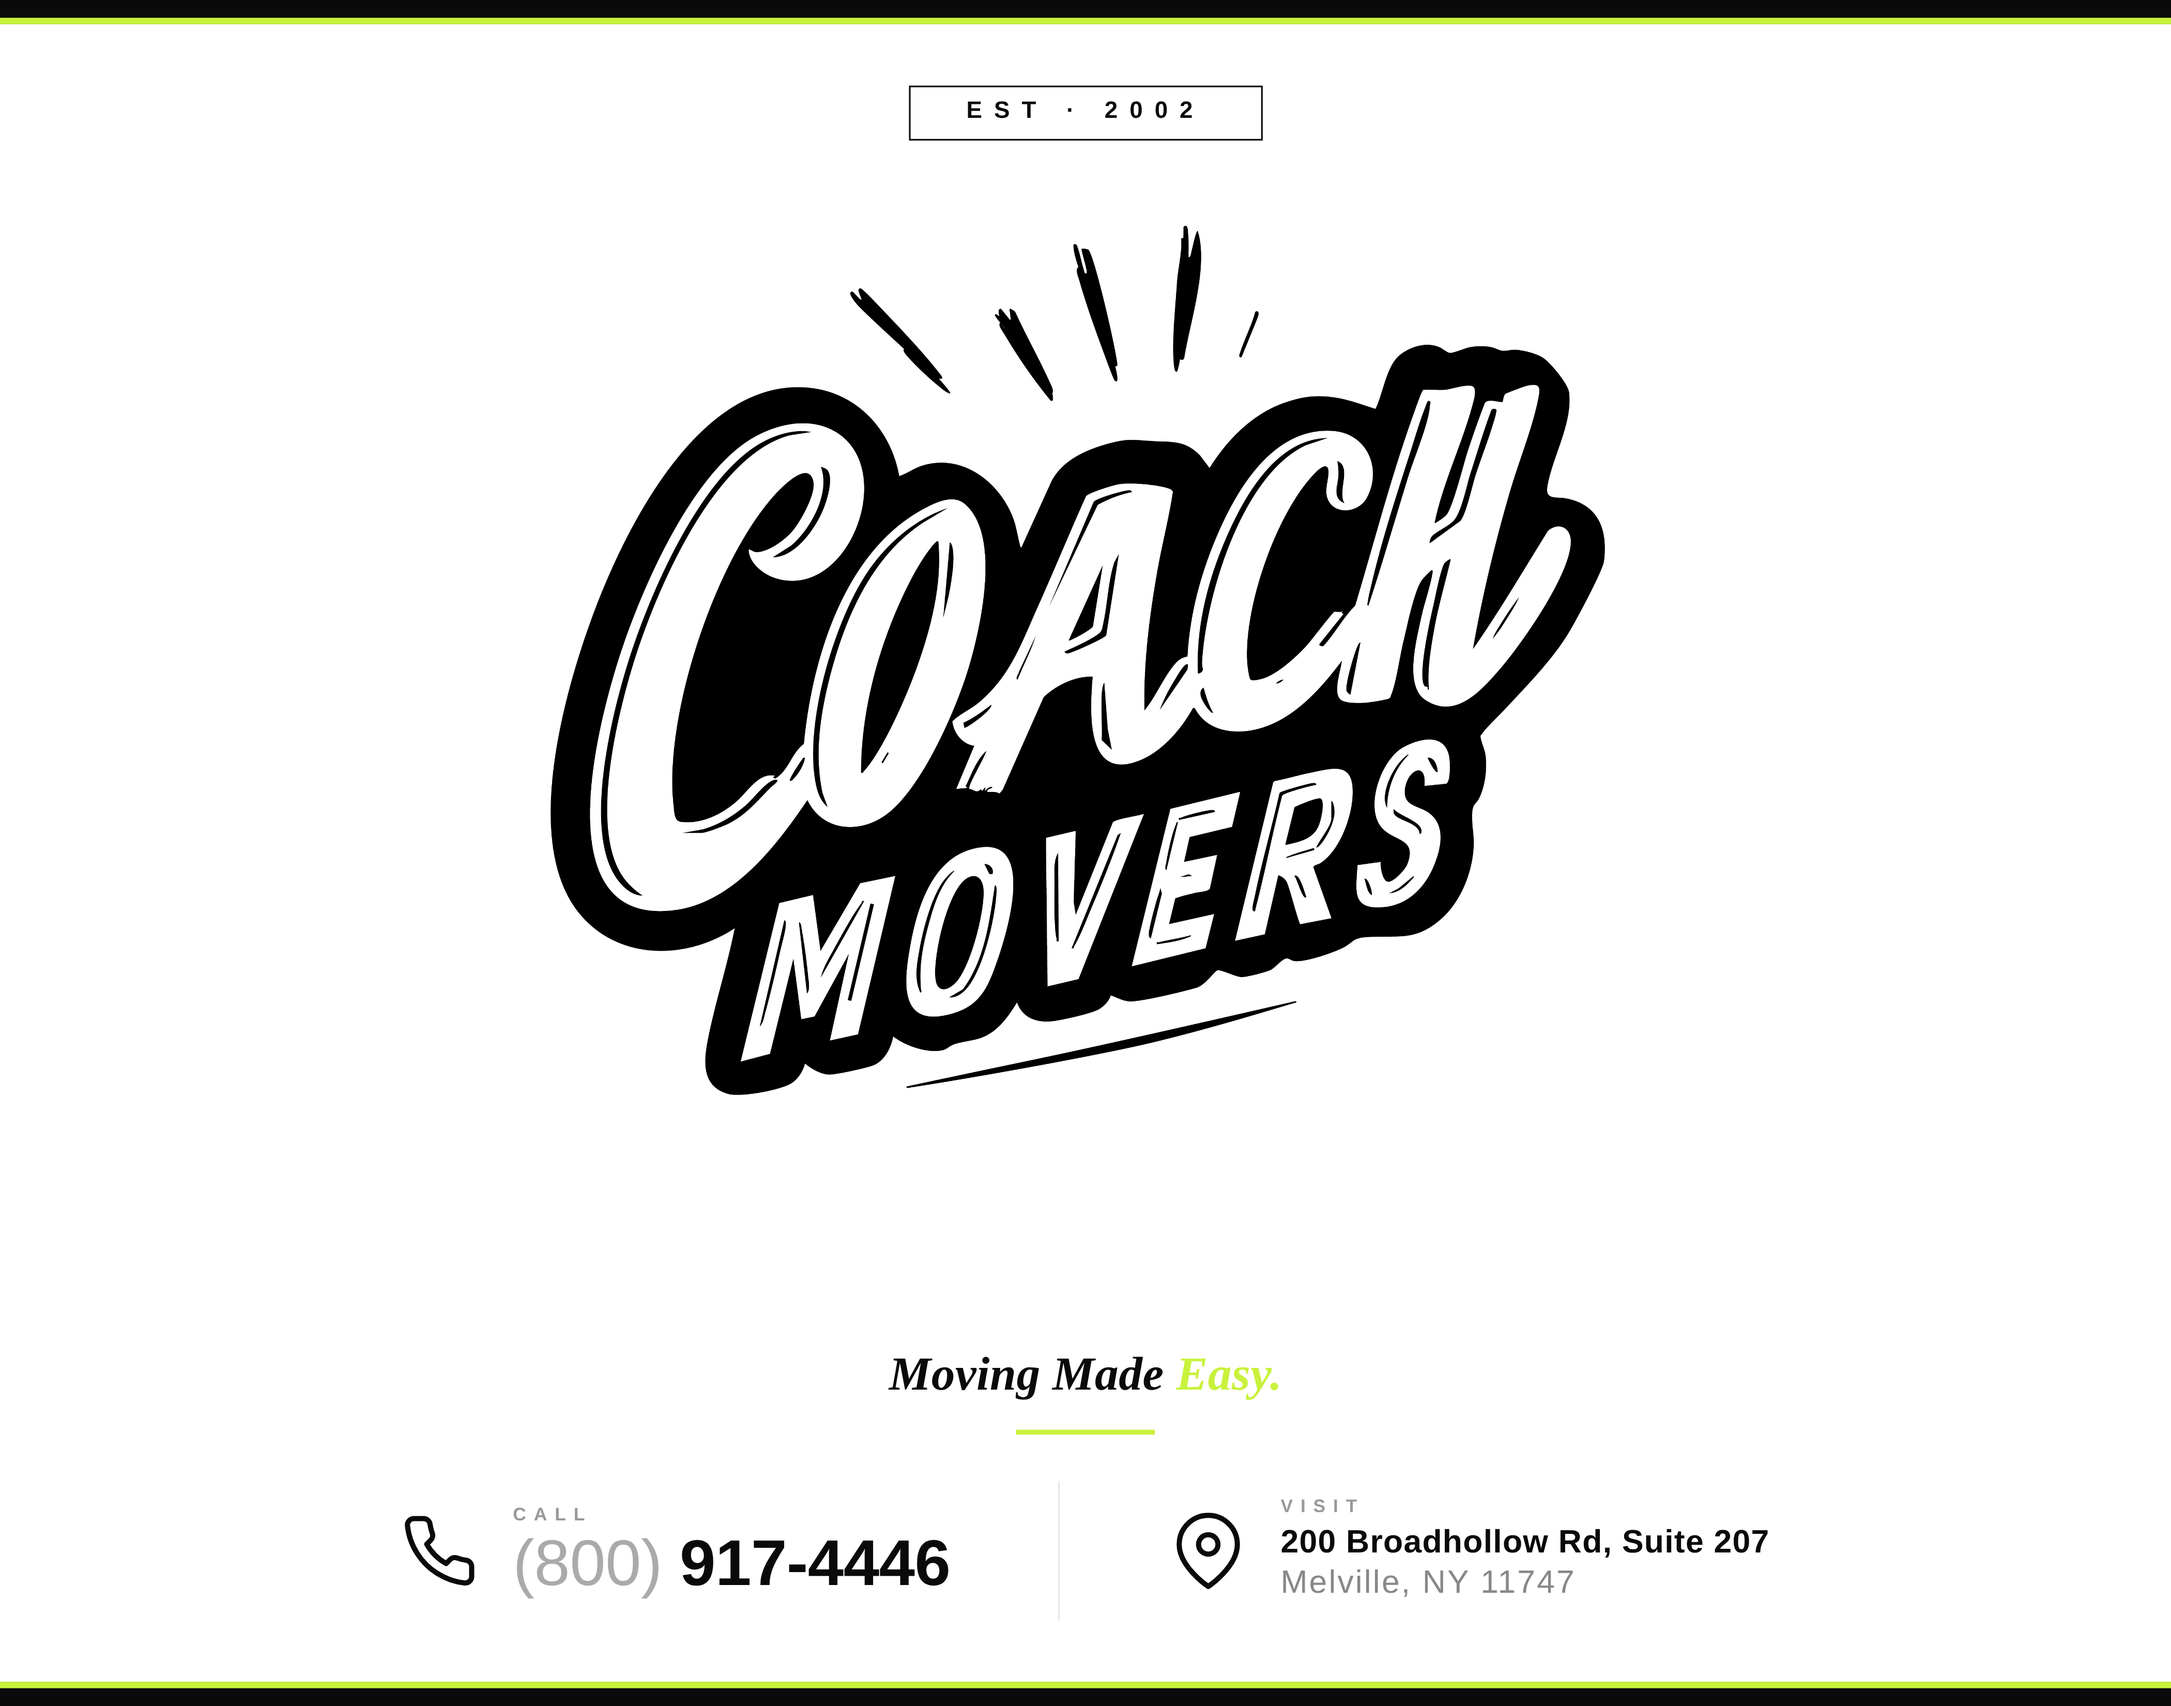
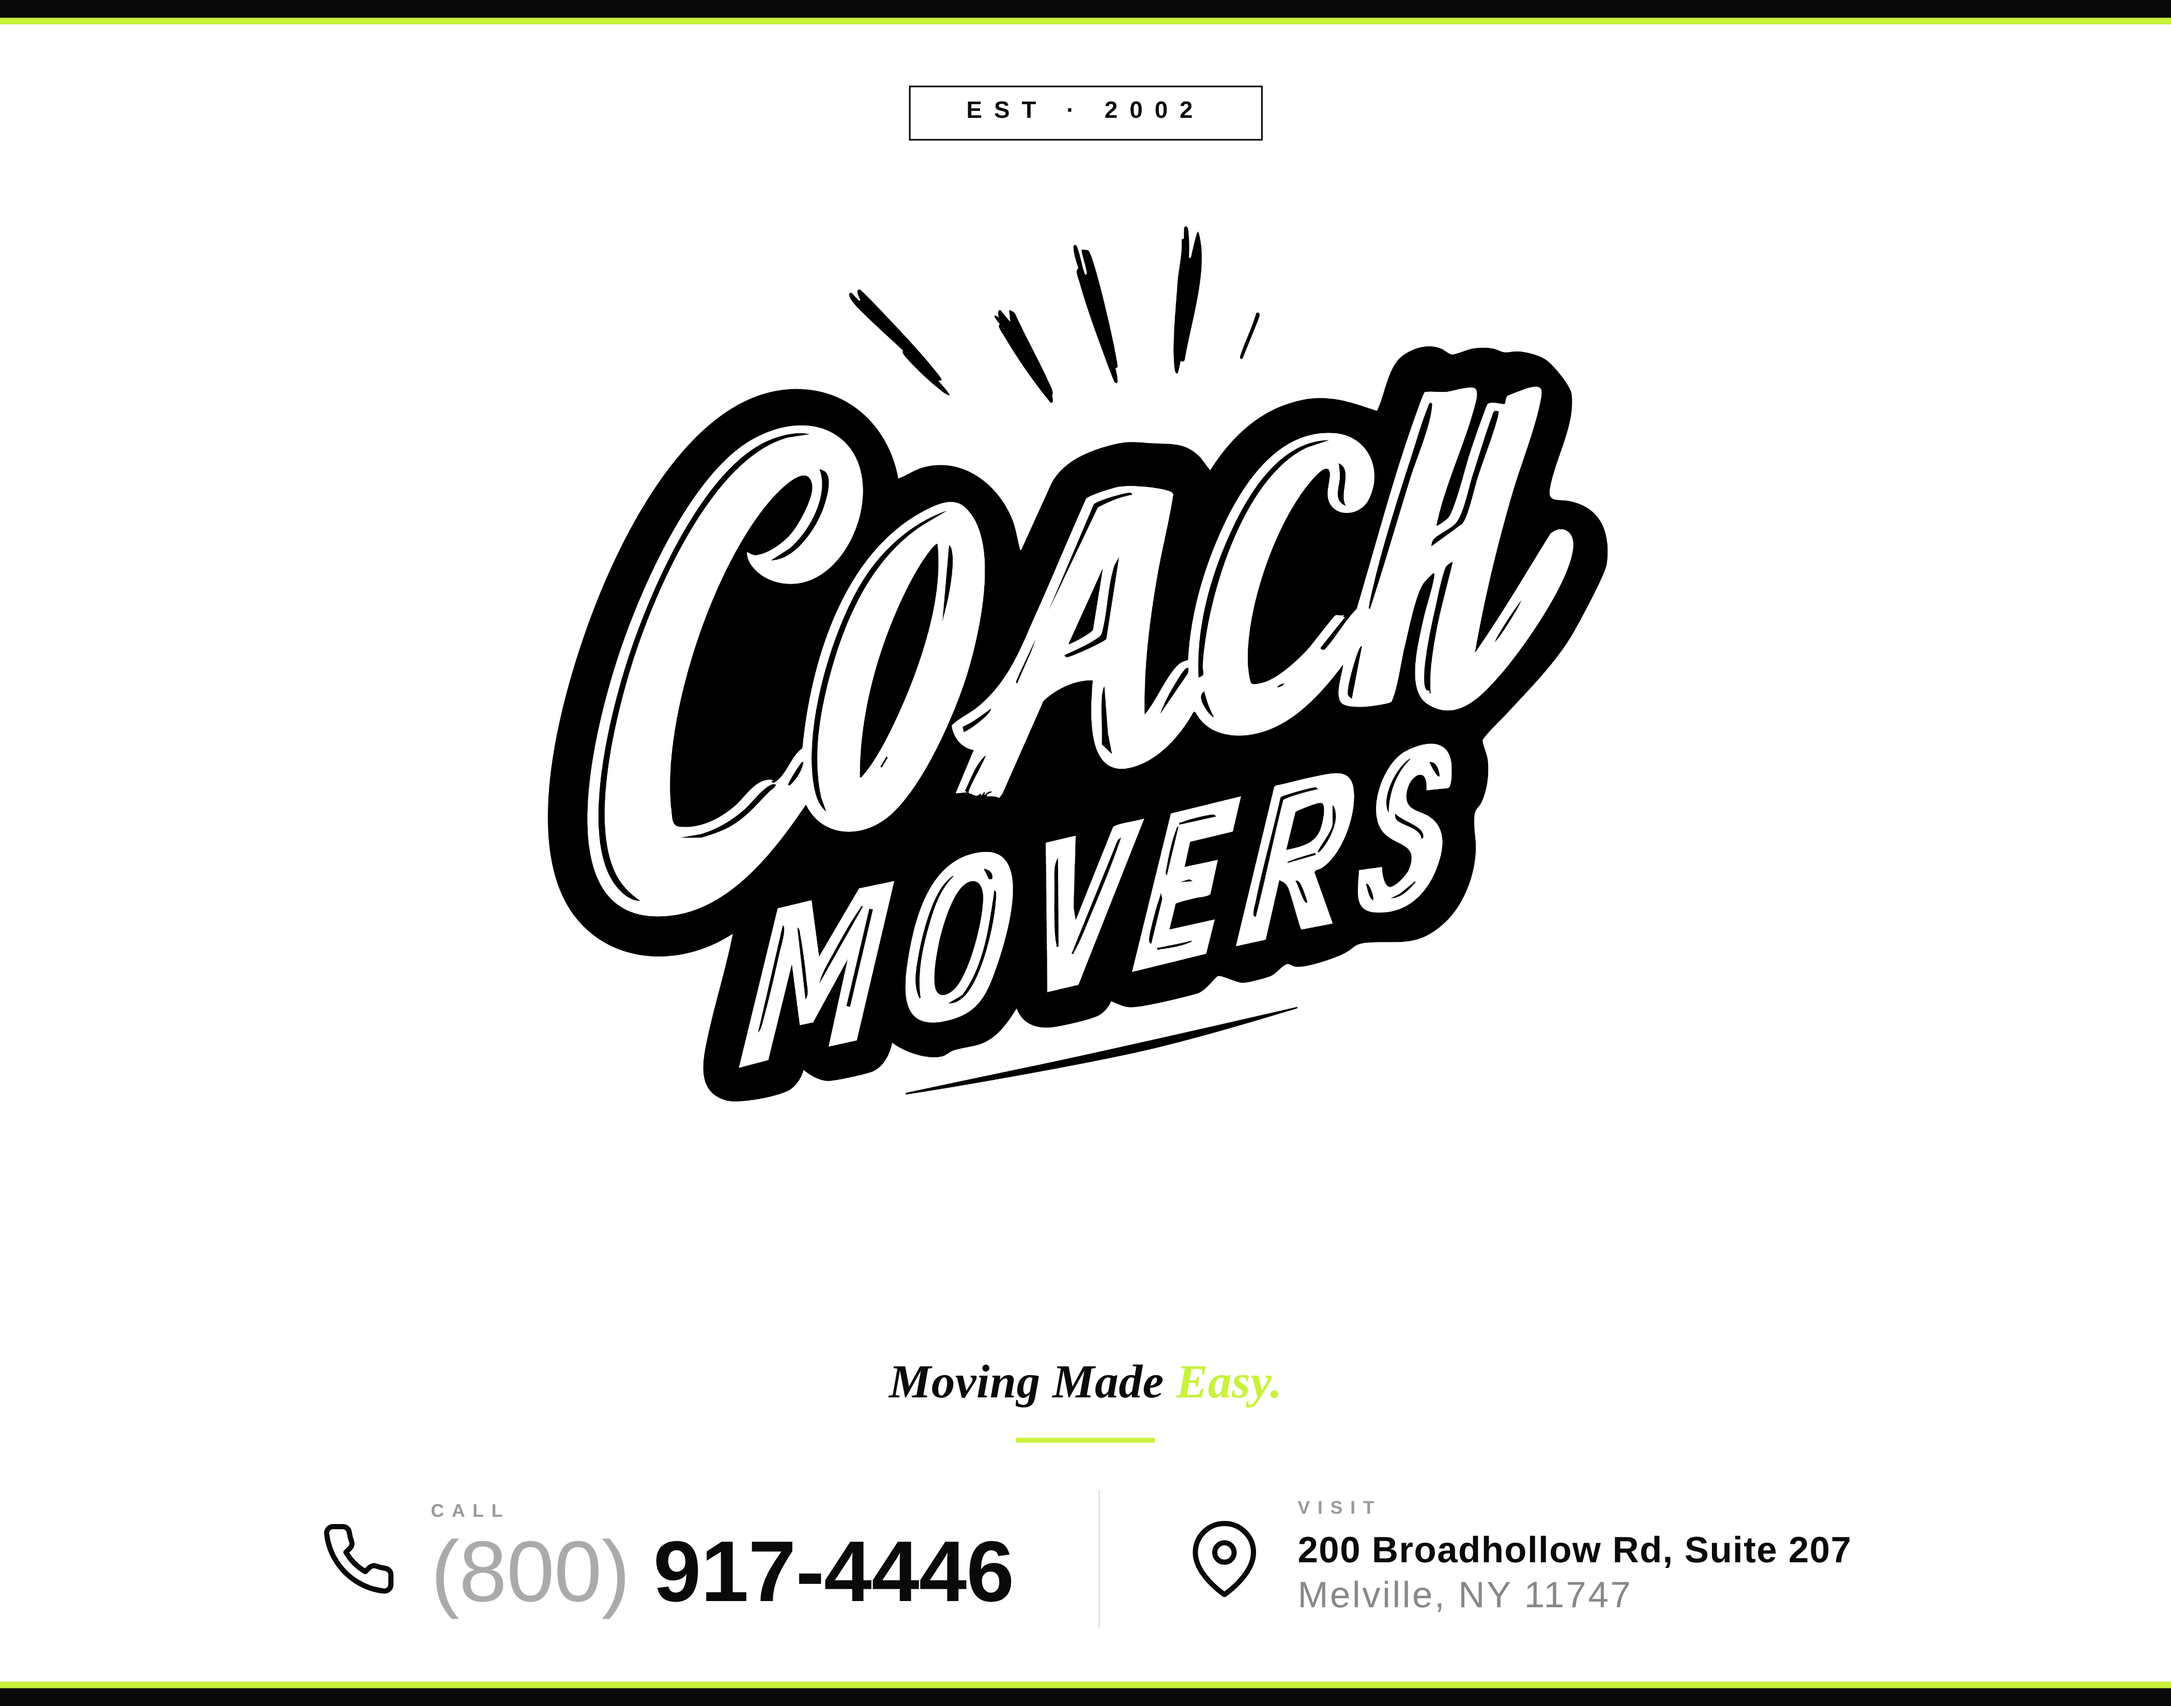
Office sign: restore phone number to a prominent size (40pt)

diff --git a/office-door-sign.html b/office-door-sign.html
@@ -132,8 +132,8 @@
     display: flex;
     align-items: center;
     justify-content: center;
-    gap: 0.7in;
-    padding: 0 0.9in 0.55in;
+    gap: 0.55in;
+    padding: 0 0.6in 0.5in;
   }
 
   .contact-item {
@@ -162,7 +162,7 @@
   .phone-value {
     font-family: 'Oswald', sans-serif;
     font-weight: 700;
-    font-size: 30pt;
+    font-size: 40pt;
     line-height: 1;
     letter-spacing: -0.005em;
     color: var(--ink);
@@ -174,7 +174,7 @@
   .address-value {
     font-family: 'Oswald', sans-serif;
     font-weight: 600;
-    font-size: 15pt;
+    font-size: 17pt;
     line-height: 1.25;
     letter-spacing: 0.02em;
     color: var(--ink);
